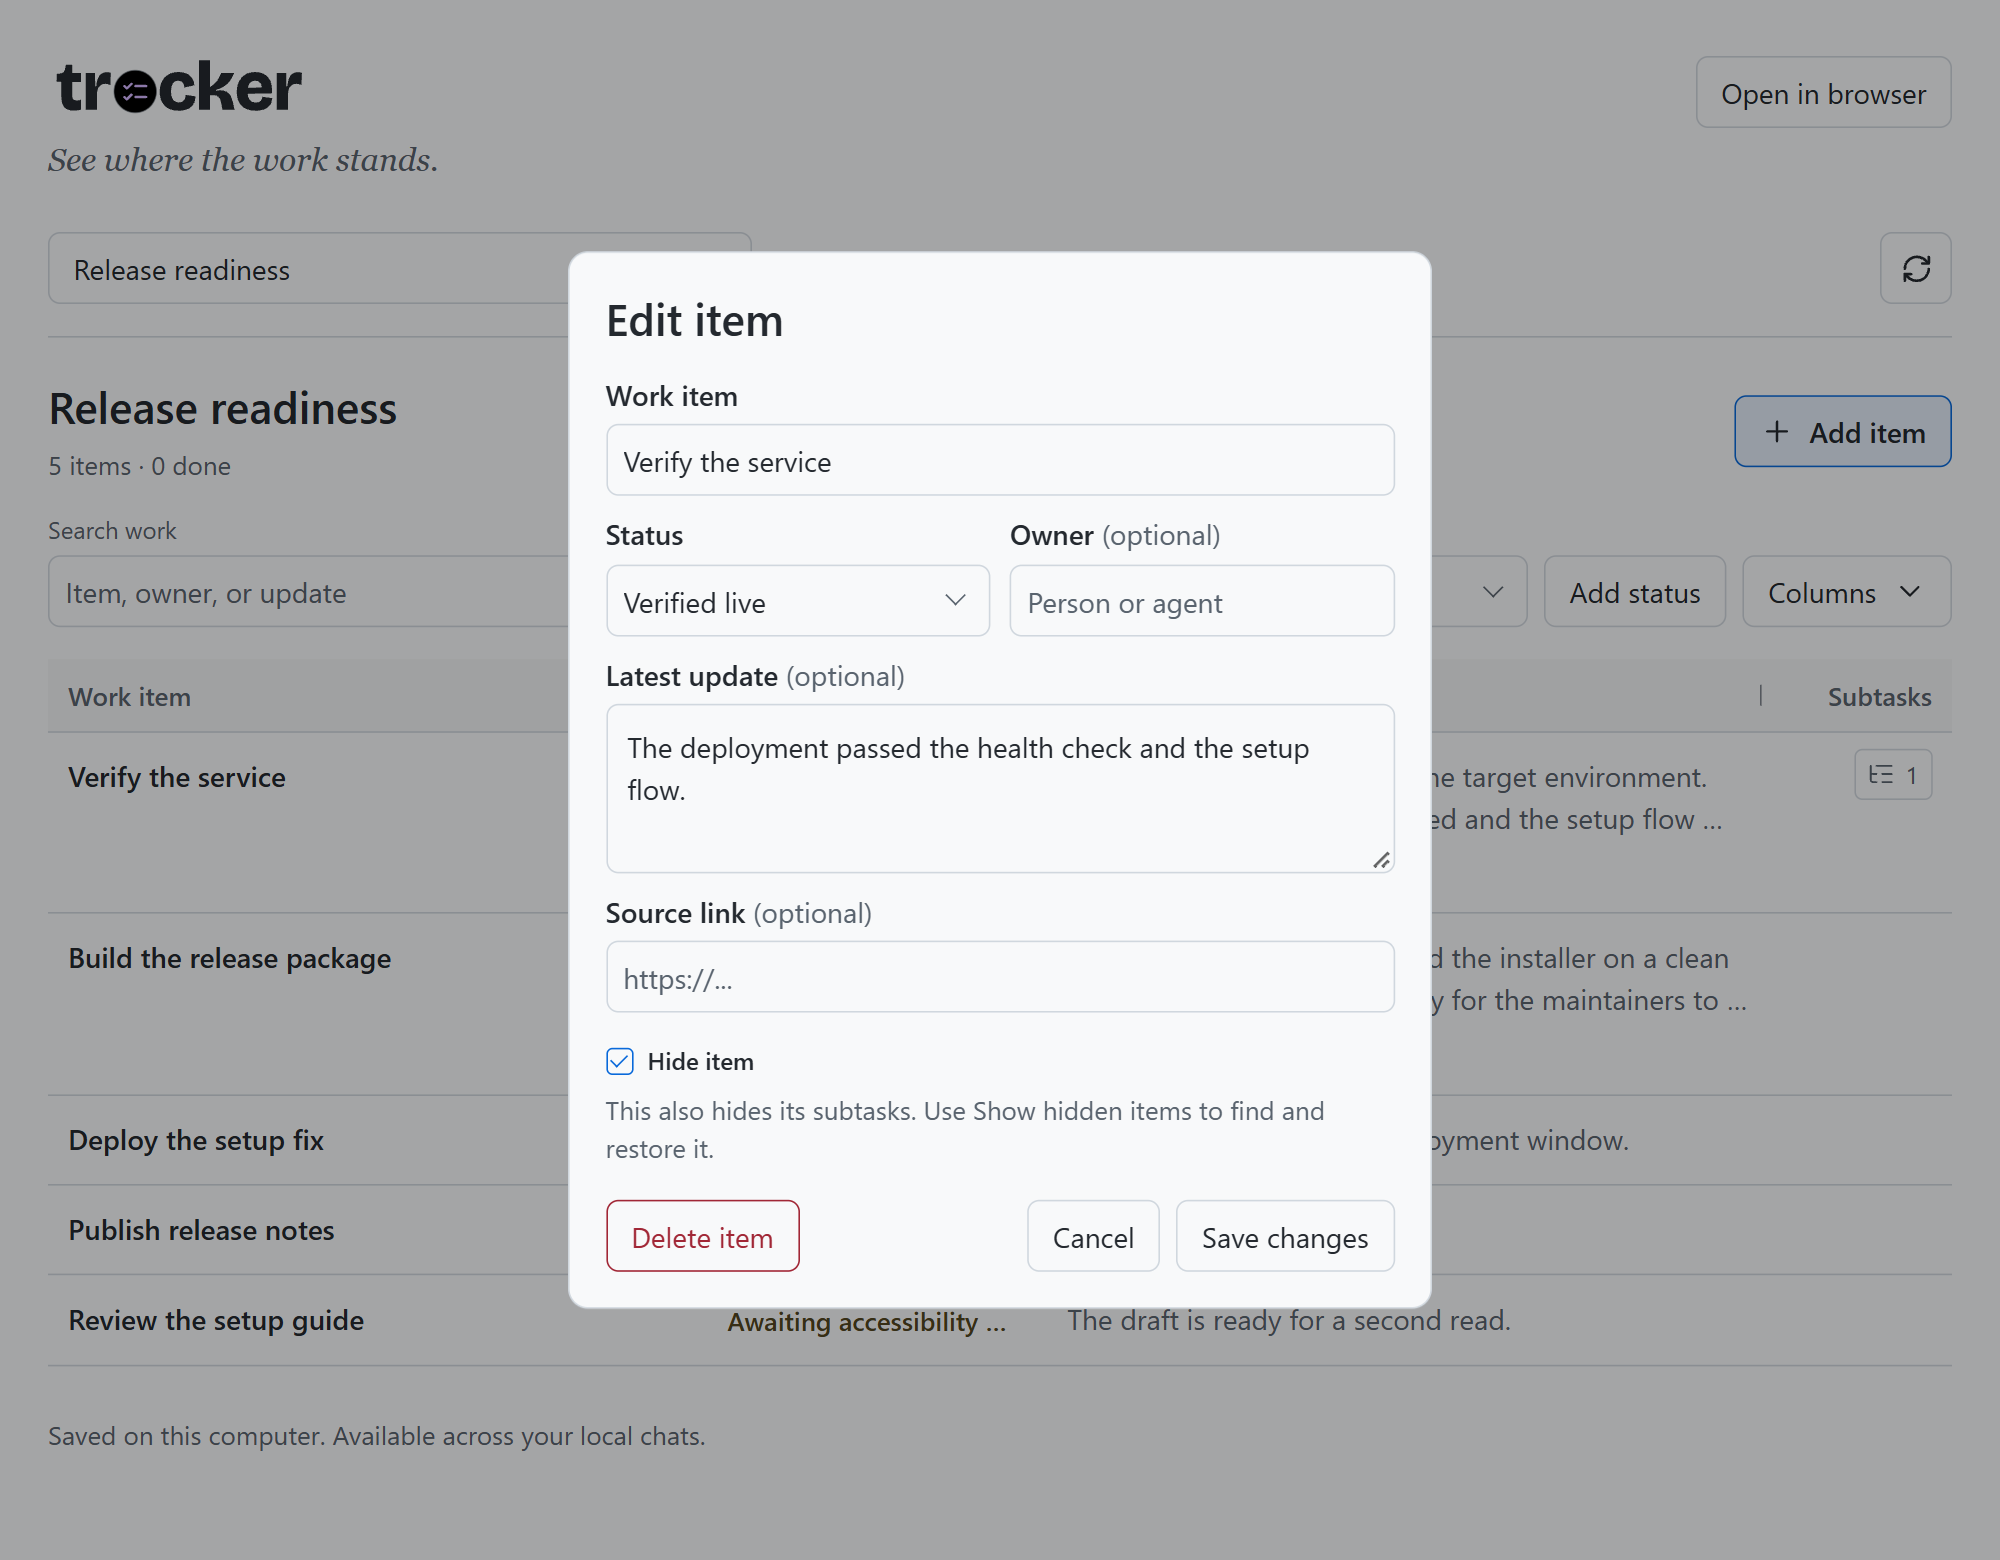
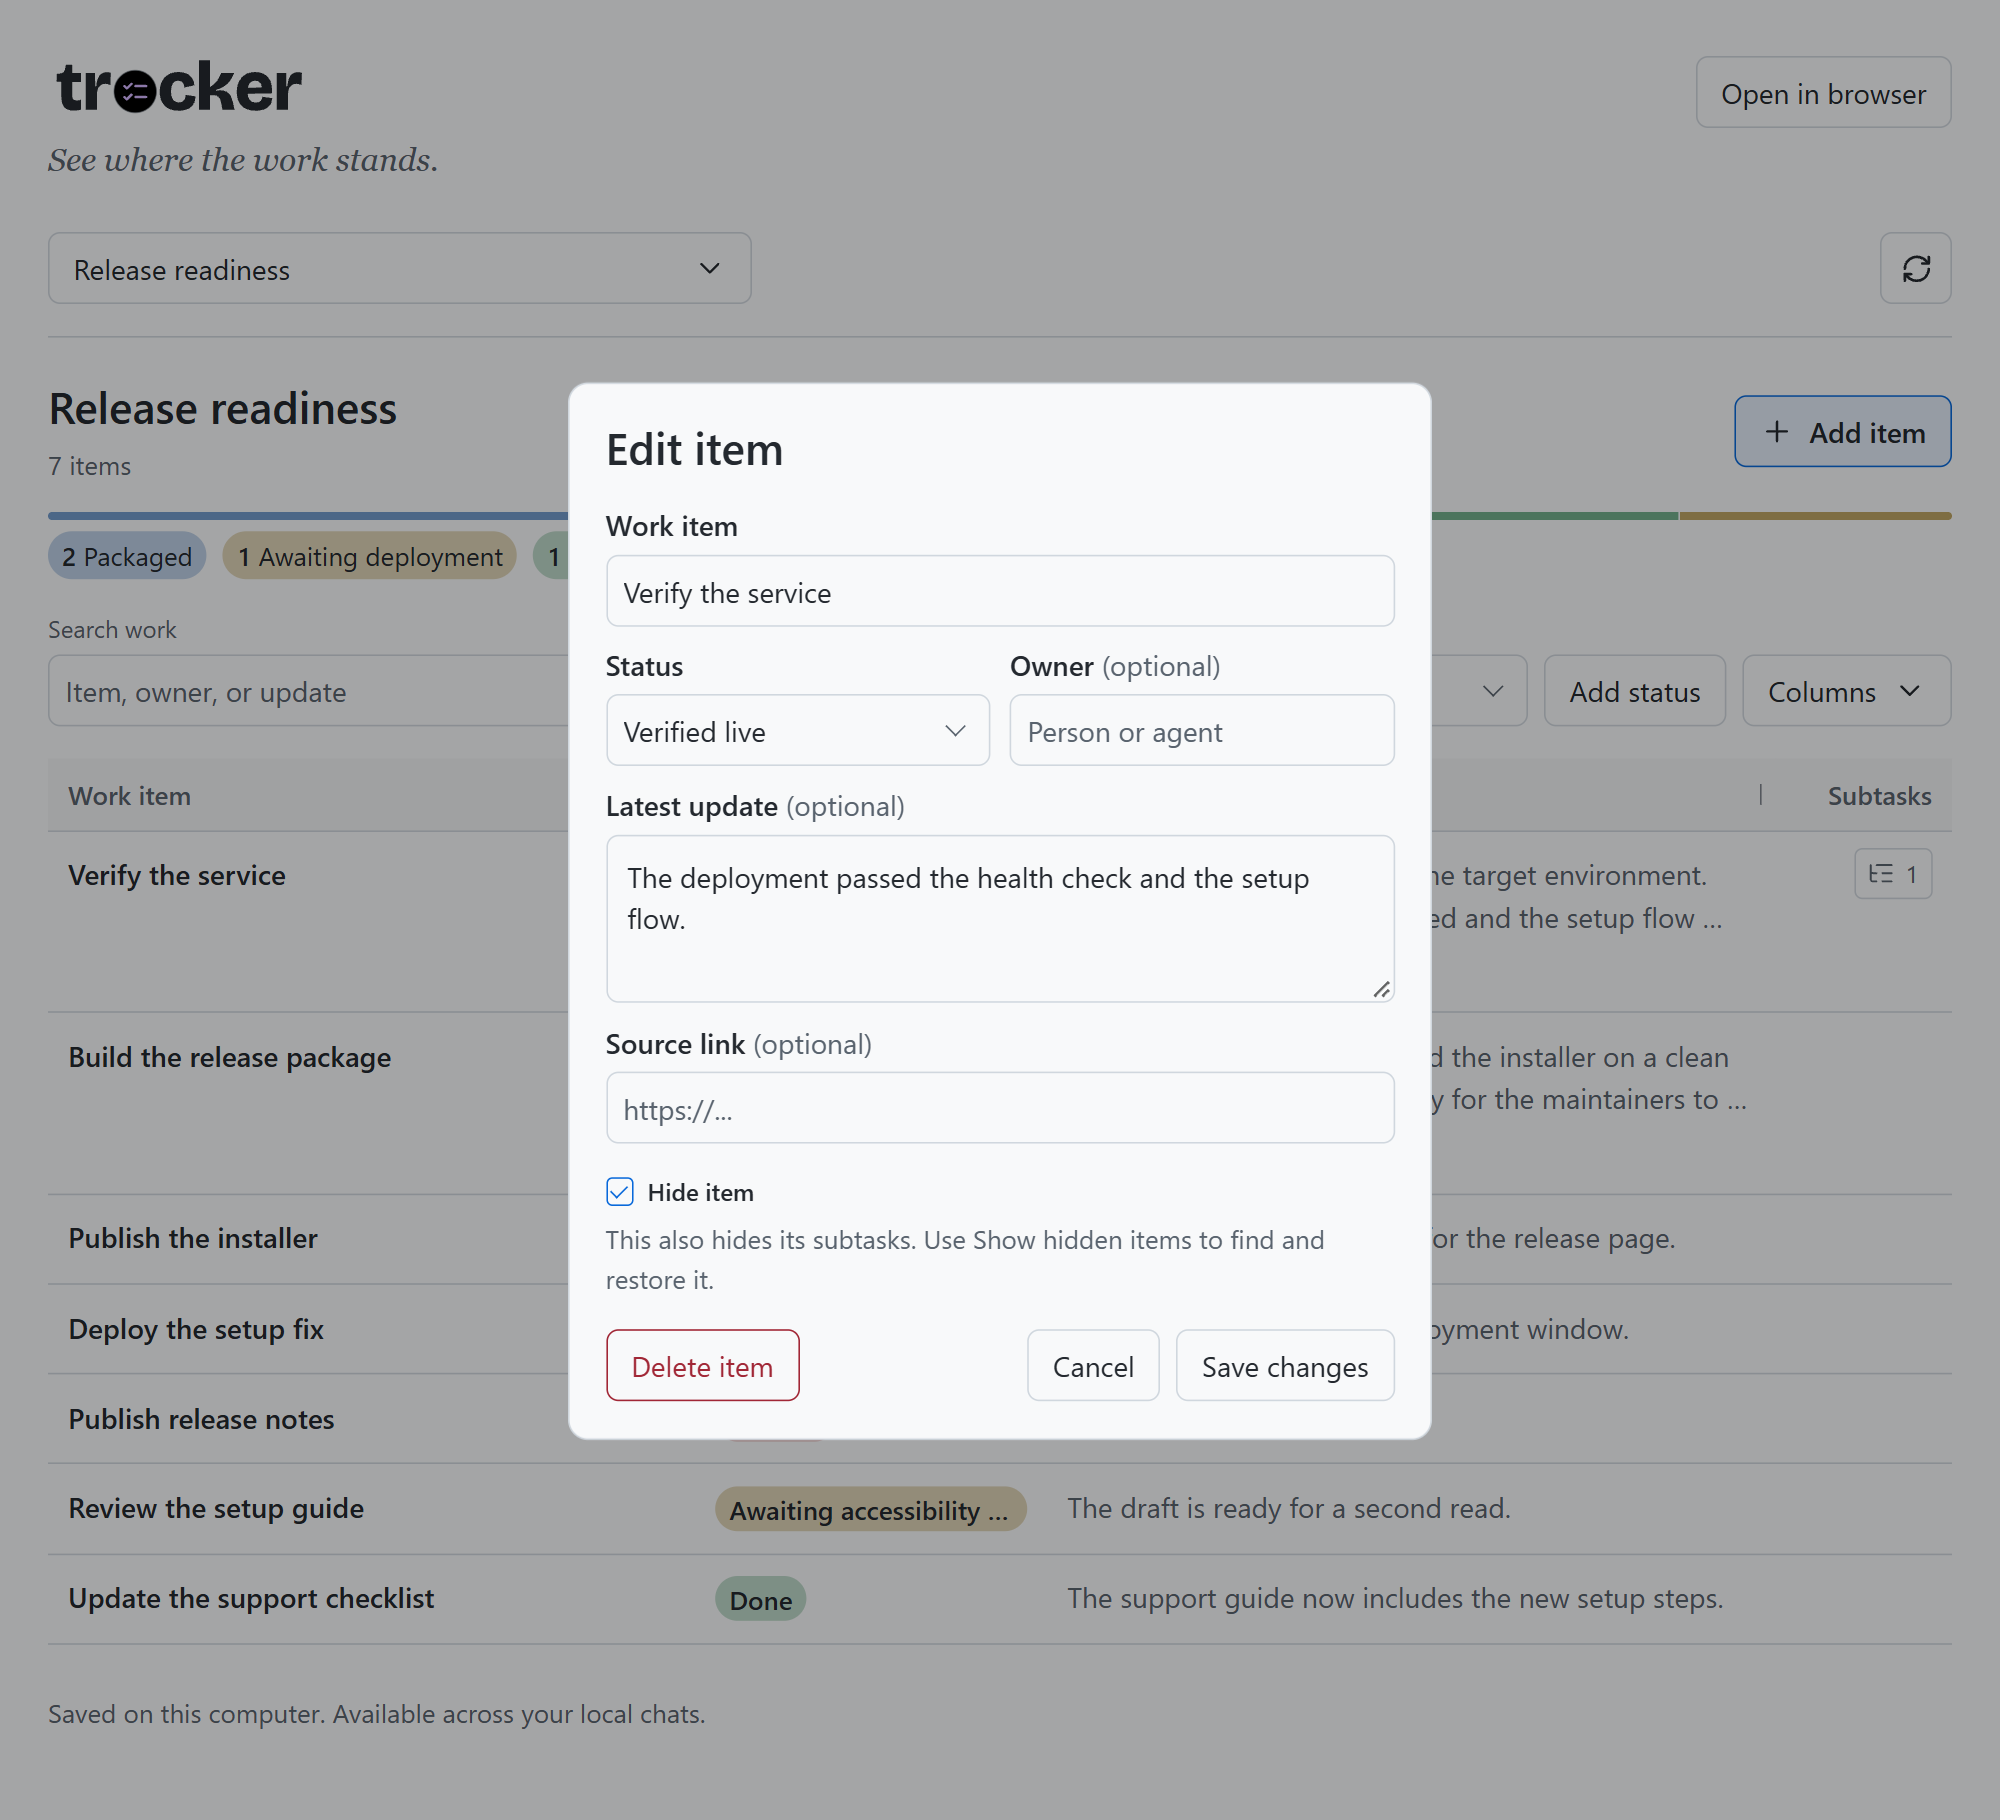
Add live Tracker status overview and tinted tags

diff --git a/apps/tracker/style.css b/apps/tracker/style.css
@@ -36,6 +36,22 @@ footer { margin-top: 24px; }
 .board-meta { display: flex; align-items: baseline; flex-wrap: wrap; gap: 2px 12px; margin-top: 5px; }
 #board-count { font-variant-numeric: tabular-nums; }
 #board-session-name { overflow-wrap: anywhere; }
+.status-summary { margin-block: 0 16px; }
+.status-distribution { display: flex; block-size: 4px; border-radius: 2px; overflow: hidden; }
+.status-distribution > span {
+    position: relative; flex-basis: 0; min-inline-size: 0;
+    background: color-mix(in srgb, var(--status-hue) 62%, var(--surface));
+}
+.status-distribution > span:not(:last-child)::after {
+    content: ""; position: absolute; inset-block: 0; inset-inline-end: 0;
+    inline-size: min(1px, 100%); background: var(--surface);
+}
+.status-counts {
+    display: flex; flex-wrap: wrap; gap: 4px 8px;
+    list-style: none; margin: 6px 0 0; padding: 0; font-size: .8125rem;
+}
+.status-counts > li { min-inline-size: 0; overflow-wrap: anywhere; }
+.status-counts strong { font-weight: 600; font-variant-numeric: tabular-nums; }
 .filters { margin-bottom: 16px; }
 .filters .field { flex: 1 1 10rem; }
 .filters .field:first-child { flex: 2 1 12rem; }
@@ -119,18 +135,27 @@ button.subtask-toggle[aria-expanded="true"] { background: var(--selected); borde
 .note-toggle:hover { text-decoration: underline; }
 .narrow-note { display: none; }
 .status {
-    display: inline-block; vertical-align: top; max-inline-size: 100%; padding: 2px 6px;
-    overflow: hidden; white-space: nowrap; text-overflow: ellipsis; border-radius: 4px;
-    color: color-mix(in srgb, var(--ink) 62%, var(--status-hue, #6787a9));
+    display: inline-block; vertical-align: top; max-inline-size: 100%;
+    overflow: hidden; white-space: nowrap; text-overflow: ellipsis;
     font-size: .8125rem; font-weight: 600; line-height: 1.4;
 }
-:is(.status, .status-heading):focus-visible { outline: 2px solid var(--accent); outline-offset: 3px; border-radius: 2px; }
-.status[data-tone="blue"] { --status-hue: #2162ae; }
-.status[data-tone="purple"] { --status-hue: #7852a5; }
-.status[data-tone="teal"] { --status-hue: #127a78; }
-.status[data-tone="red"] { --status-hue: #b94342; }
-.status[data-tone="amber"] { --status-hue: #9b7208; }
-.status[data-tone="green"] { --status-hue: #228249; }
+.status-tag {
+    padding: 2px 7px; border-radius: 999px;
+    color: var(--ink); background: color-mix(in srgb, var(--status-hue) 28%, var(--surface));
+}
+:is(.status, .status-heading):focus-visible { outline: 2px solid var(--accent); outline-offset: 3px; }
+.status-heading:focus-visible { border-radius: 2px; }
+.status-tone { --status-hue: #6787a9; }
+.status-tone[data-tone="blue"] { --status-hue: #2162ae; }
+.status-tone[data-tone="purple"] { --status-hue: #7852a5; }
+.status-tone[data-tone="teal"] { --status-hue: #127a78; }
+.status-tone[data-tone="red"] { --status-hue: #b94342; }
+.status-tone[data-tone="amber"] { --status-hue: #9b7208; }
+.status-tone[data-tone="green"] { --status-hue: #228249; }
+@media (forced-colors: active) {
+    .status-distribution { display: none; }
+    .status-tag:not(:focus-visible) { outline: 1px solid CanvasText; outline-offset: -1px; }
+}
 .empty { padding: 23px 0; border-block-end: 1px solid var(--edge); color: var(--muted); }
 .empty h3 { color: var(--ink); margin-bottom: 4px; }
 .empty button { margin-top: 12px; }

diff --git a/apps/tracker/app.js b/apps/tracker/app.js
@@ -278,7 +278,7 @@ function row(item, status, { parent, contextOnly = false, showSubtasksColumn, su
     const state = document.createElement("td");
     state.hidden = hiddenColumns.has("status");
     const badge = document.createElement("span");
-    badge.className = "status";
+    badge.className = "status status-tag status-tone";
     badge.dataset.tone = status.tone;
     badge.textContent = status.label;
     const tip = status.tooltip || statusTips.get(status.id) || "A custom status for this tracker.";
@@ -324,6 +324,34 @@ function row(item, status, { parent, contextOnly = false, showSubtasksColumn, su
     return tr;
 }
 
+function renderStatusSummary(items) {
+    const total = items.length;
+    byId("board-count").textContent = `${total} ${total === 1 ? "item" : "items"}`;
+    byId("status-summary").hidden = !total;
+    const counts = new Map();
+    for (const { statusId } of items) counts.set(statusId, (counts.get(statusId) ?? 0) + 1);
+    const segments = document.createDocumentFragment();
+    const labels = document.createDocumentFragment();
+    for (const { id, label, tone } of data.statuses) {
+        const count = counts.get(id);
+        if (!count) continue;
+        const segment = document.createElement("span");
+        segment.className = "status-tone";
+        segment.dataset.tone = tone;
+        segment.style.flexGrow = String(count);
+        segments.append(segment);
+        const entry = document.createElement("li");
+        entry.className = "status-tag status-tone";
+        entry.dataset.tone = tone;
+        const number = document.createElement("strong");
+        number.textContent = String(count);
+        entry.append(number, ` ${label}`);
+        labels.append(entry);
+    }
+    byId("status-distribution").replaceChildren(segments);
+    byId("status-counts").replaceChildren(labels);
+}
+
 function renderRows({ all = false } = {}) {
     if (!data) return;
     const hiddenIds = new Set(data.items.filter(item => item.hidden).map(item => item.id));
@@ -334,8 +362,7 @@ function renderRows({ all = false } = {}) {
     const visibleItems = showHidden.checked ? data.items
         : data.items.filter(item => !hiddenIds.has(item.id) && !hiddenIds.has(item.parentId));
     const summary = visibleItems.filter(item => !item.parentId);
-    const done = summary.filter(item => item.statusId === "done").length;
-    byId("board-count").textContent = `${summary.length} ${summary.length === 1 ? "item" : "items"} \u00b7 ${done} done`;
+    renderStatusSummary(summary);
     const query = search.value.trim().toLowerCase();
     const filter = statusFilter.value;
     const statuses = new Map(data.statuses.map(status => [status.id, status]));

diff --git a/apps/tracker/index.html b/apps/tracker/index.html
@@ -57,6 +57,10 @@
           <svg class="glyph" viewBox="0 0 24 24" aria-hidden="true"><use href="/ui-icons.svg#plus"/></svg>Add item
         </button>
       </div>
+      <div id="status-summary" class="status-summary" hidden>
+        <div id="status-distribution" class="status-distribution" aria-hidden="true"></div>
+        <ul id="status-counts" class="status-counts" role="list" aria-label="Items by status"></ul>
+      </div>
       <div class="filters">
         <div class="field">
           <label for="search">Search work</label>

diff --git a/apps/tracker/README.md b/apps/tracker/README.md
@@ -2,7 +2,7 @@
 
 Keep a work list for a release, a handoff, or your own projects. Update it in the canvas or ask Copilot to update it from a chat.
 
-![Tracker table with subtle resize dividers, colored status labels, and two-line update previews](screenshot-table-view.png)
+![Tracker with a status summary above the table, tinted status tags, and two-line update previews](screenshot-table-view.png)
 
 ## Use
 
@@ -12,7 +12,9 @@ In the GitHub Copilot app, open **Canvas apps** and choose **Tracker**. If it is
 
 Choose **Add item** or select an item's title to edit it. Items can have an owner, an update, and a source link.
 
-New items start at **To do** unless a status filter is active. Status labels use muted colors in both light and dark themes. **In progress** and **Awaiting deployment** are yellow, **Packaged** is blue, **Verified live** and **Done** are green, and **Blocked** is red. **To do** and custom statuses without an assigned color use slate. Hover over a status or focus it with the keyboard to see the full label and what it means. Use **Add status** for a custom label and an optional tip. [See all statuses](actions.md#built-in-statuses).
+The bar and counts above the table show how the tracker's items are split by status. They update as items change, including edits from other chats. The summary counts top-level items, not subtasks. Search and status filters only change the table. Hidden items count only while **Show hidden items** is on.
+
+New items start at **To do** unless a status filter is active. The table and summary use the same tinted tags with neutral text in light and dark themes. **In progress** and **Awaiting deployment** are yellow, **Packaged** is blue, **Verified live** and **Done** are green, and **Blocked** is red. **To do** and custom statuses without an assigned color use slate. Hover over a status in the table or focus it with the keyboard to see the full label and what it means. Use **Add status** for a custom label and an optional tip. [See all statuses](actions.md#built-in-statuses).
 
 To add a subtask, pick a parent in **Add under**. Subtasks start collapsed. Use the count in the **Subtasks** column to open them. **Expand all** appears when more than one item has subtasks or when the **Subtasks** column is hidden. If a subtask matches a search or filter, its parent appears without expanding. Each subtask has its own status.
 

diff --git a/apps/tracker/PRODUCT.md b/apps/tracker/PRODUCT.md
@@ -12,11 +12,11 @@ People can use Tracker to follow their own work or ask Copilot to update a share
 
 ## Capabilities and constraints
 
-Named trackers are shared across local Copilot chats. A tracker presents work items, filterable statuses, and progress notes. Built-in statuses distinguish review, merge readiness, and deployment. Each tracker can also have custom statuses.
+Named trackers are shared across local Copilot chats. A tracker presents work items, filterable statuses, and progress notes. A live summary shows how top-level items are split by status, independently of search and status filters. Built-in statuses distinguish review, merge readiness, and deployment. Each tracker can also have custom statuses.
 
 The table opens with subtasks collapsed. Each work item can have one level of subtasks. Tracker does not import session plans.
 
-Users can hide or resize columns in the current view without changing the saved tracker. Status labels stay on one line and show their colors without hover. Long updates can be expanded from a two-line preview.
+Users can hide or resize columns in the current view without changing the saved tracker. Table status tags stay on one line. The table and summary use the same status tints with neutral text. Long updates can be expanded from a two-line preview.
 
 Users can hide items without losing them, restore hidden items, or delete an item or tracker after confirmation.
 

diff --git a/apps/tracker/actions.md b/apps/tracker/actions.md
@@ -31,6 +31,6 @@ Open the `work-tracker` canvas with `boardName` or `boardId`. Omit both to open 
 | Paused | `paused` | Work is intentionally on hold. |
 | Done | `done` | Work is complete. |
 
-Use the IDs from `get_board`. A custom status that matches a built-in label keeps its ID and any custom tip, and its label uses the built-in color. Hover or keyboard focus reveals the tip without changing the color.
+Use the IDs from `get_board`. A custom status that matches a built-in label keeps its ID and any custom tip, and its tag uses the built-in tint. Hover or keyboard focus reveals the tip without changing the tint.
 
 Custom statuses named **Awaiting accessibility** or **Awaiting accessibility sign-off** use the same yellow as **In progress** and **Awaiting deployment**. Tracker does not add either accessibility status by default.
